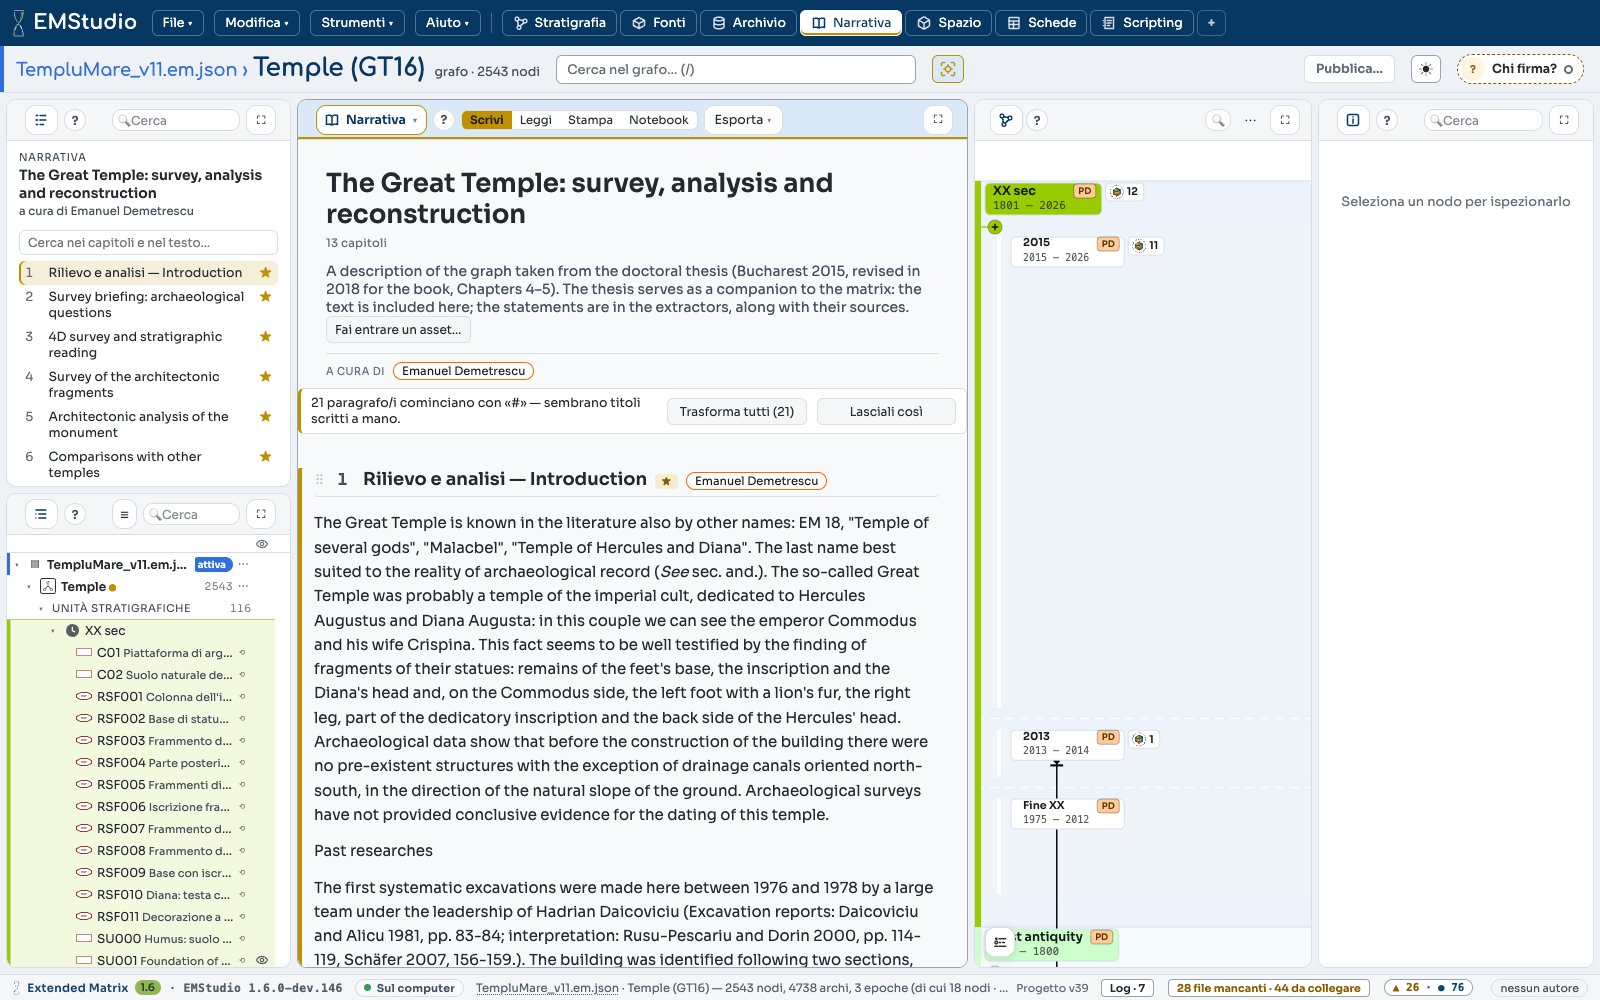
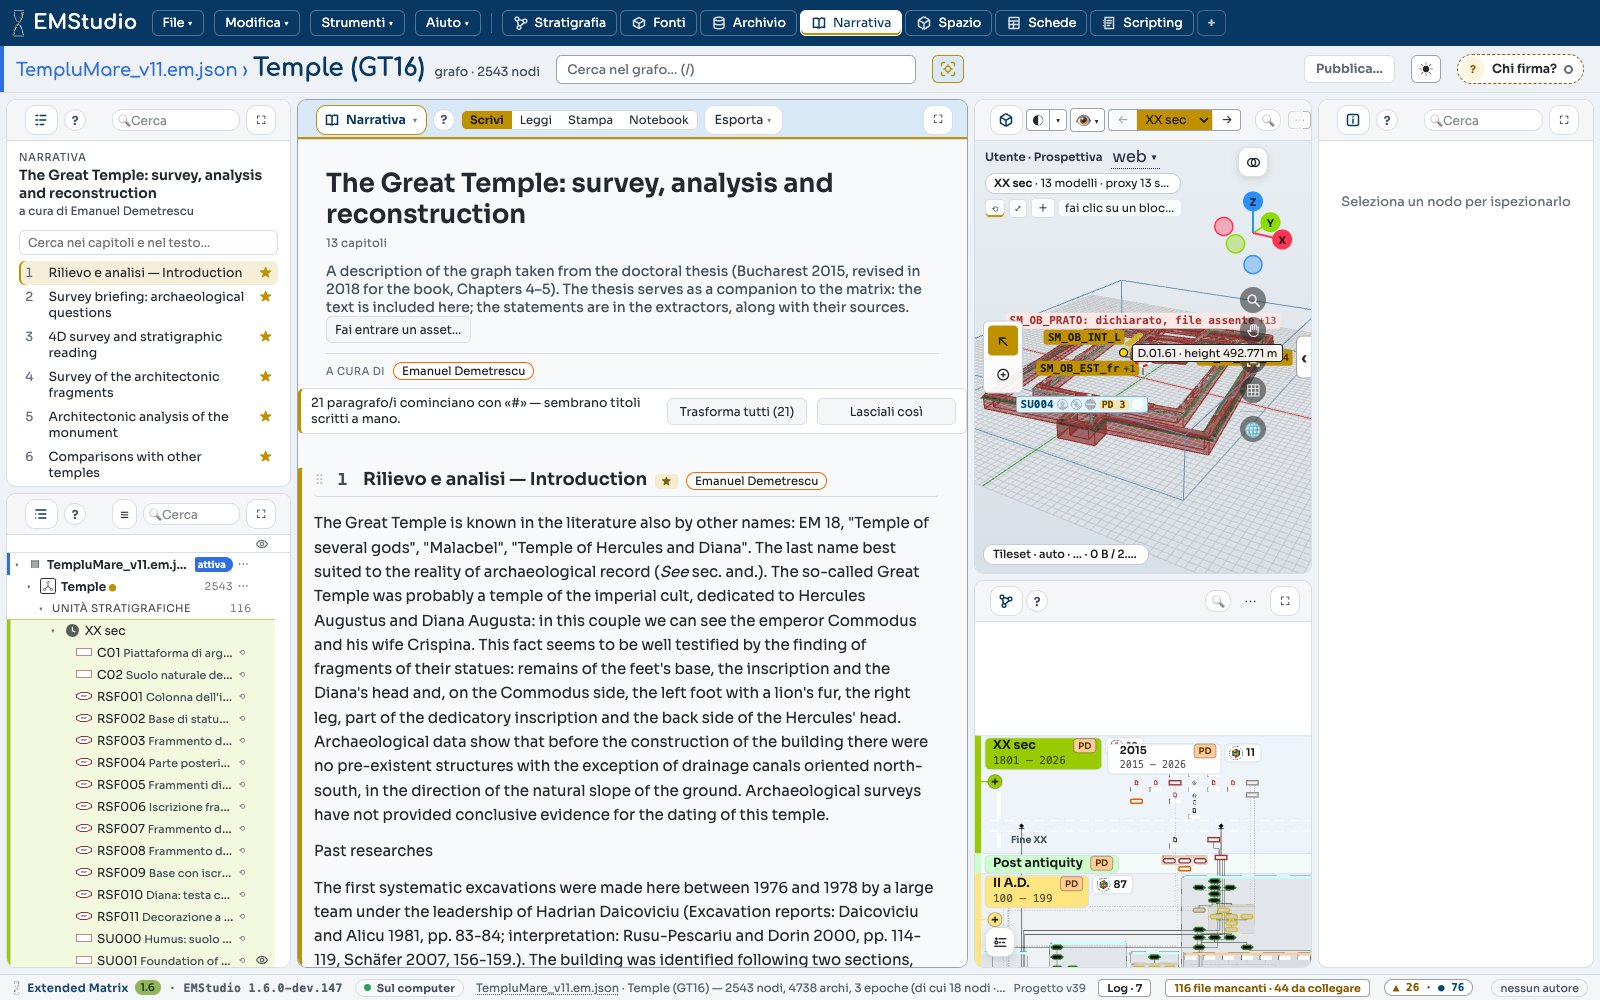
Narrative: the 3D view that accompanies the text (MICRO-SEG26) — write-the-narrative «Follow the text in 3D» (following the block, the strip, from the scene to the text, bringing a view of the Space dynamic or static, em.app.narrative), the Narrative workspace in reference/workspaces with the 3D abo

Changed region(s): [[0.5938, 0.093, 0.8438, 0.992]]

diff --git a/docs/how-to/narrative/write-the-narrative.rst b/docs/how-to/narrative/write-the-narrative.rst
@@ -20,8 +20,9 @@ Before you start
   reconstruction*, with chapters such as *Virtual Activity 2: colonnade*.
 - Click **Narrative** in the bar of the workspaces. The workspace shows the
   **Index** of the story above the **Outliner** on the left, the **Narrative**
-  window (the page) in the middle, and a **Graph** window in **Matrix** mode
-  beside the **Inspector** on the right (see :doc:`/reference/workspaces`).
+  window (the page) in the middle, a **3D scene** above a **Graph** window in
+  **Matrix** mode, and the **Inspector** on the right (see
+  :doc:`/reference/workspaces`).
 
 Start a story
 -------------
@@ -216,6 +217,8 @@ Matrix: an epoch, an activity, or a horizon of the project's periodization.
 **Story coverage** in the **Index** counts what the chapters and sections
 narrate: an epoch narrated, or one of its activities, is told.
 
+.. _how-to-narrative-figures:
+
 Insert the figures of an epoch or an activity
 ---------------------------------------------
 
@@ -298,6 +301,82 @@ A click on a notice takes the page to the part.
 .. image:: /_static/screens/narrative/coherence.jpg
    :alt: The Index with Coherence with the Matrix · 3 open: VAct.01 Foundations of the temple is now called VAct.01 Foundations and podium, in chapters 8 and 11, each with Keep as it is, and 3 bindings with no record yet, with Record them now.
 
+.. _how-to-narrative-follow-3d:
+
+Follow the text in 3D
+---------------------
+
+The **3D scene** of the Narrative workspace is the scene of the **Space**, and it
+accompanies the text: it follows the block you are on. In **Write** that is the
+block where the cursor is; in **Read**, the block at the upper third of the
+page when you stop scrolling.
+
+- When the block narrates an epoch or an activity (the chips under the title
+  of its chapter, section or subsection), the scene shows that epoch and only
+  the proxies and the models that belong to it, and frames them.
+- The units the block cites (its ``[[`` mentions, the **Cites** row of the
+  **Inspector**) are lit, and the other proxies are faded.
+- A block that narrates and cites nothing leaves the scene where it was.
+
+The camera flies to the new view, as when you double-click in the Space (with
+**Reduce motion** in the system settings it fades instead). While you write it
+waits until the cursor has stayed still for about a second, so the scene never
+moves while you type.
+
+The strip at the top of the scene has three buttons:
+
+- **Follow the text** turns the following off and on. It is on at the start.
+- **Frame this block** flies to the block now.
+- **Insert this view as a figure** puts the view as it is now into the story,
+  after the active block, as a live figure (see
+  :ref:`how-to-narrative-figures`).
+
+The scene is an area like the others: you can resize it, close it, or change it
+into another kind of window from its header.
+
+.. image:: /_static/screens/narrative/follow-3d.jpg
+   :alt: Chapter 8, Virtual Activity 1, with its first paragraph active: the 3D scene above the Matrix shows II A.D. with the proxies of VAct.01 Foundations of the temple only, USV102 and USV108 among them, and the strip Follow the text, Frame this block, Insert this view as a figure.
+
+From the scene to the text
+~~~~~~~~~~~~~~~~~~~~~~~~~~
+
+Click a proxy in the scene. The parts of the story that cite that unit, or
+narrate an activity it belongs to, are lit in the page, and the Index shows how
+many each chapter has. A bar at the top of the page says **«USV101» in 5 parts
+of the story**; **Next ›** and **‹ Previous** take you from one part to the
+next, and **×** removes the light.
+
+.. image:: /_static/screens/narrative/about-unit.jpg
+   :alt: USV101 picked in the 3D: the bar «USV101» in 5 parts of the story · 1/5 with Previous, Next and ×; chapter 8 lit in the page; in the Index, chapter 8 with the count 2.
+
+Bring a view of the Space into the story
+~~~~~~~~~~~~~~~~~~~~~~~~~~~~~~~~~~~~~~~~
+
+In the **Space**, choose **Bring into the Narrative…** from the **⋯** menu of
+the 3D view, or press :kbd:`Shift+N` with the pointer over the scene. The view as
+it is now (the camera, the epoch, the layers shown, the selection, the level of
+detail) goes into the story, after the active block:
+
+- **Dynamic** inserts a live figure: it is drawn again from the graph when the
+  graph changes, and in **Read** **Open in the Space** opens the same view
+  again;
+- **Static** inserts a picture taken now, at high resolution, which does not
+  change with the graph. Its caption carries the date and the view's
+  parameters, for example *XX sec — view from the Space, frozen on 22 Nov 2026,
+  08:40 · epoch XX sec · User · Perspective · layers: …*.
+
+When no block is active, the window proposes the chapters and sections that
+narrate the epoch of the view (or the chapters, when none narrates it).
+``Edit ▸ Undo`` takes the figure back in one step.
+
+.. image:: /_static/screens/narrative/bring-view.png
+   :alt: The window Bring the view into the Narrative: the view as it is now goes into the story; no block is active, choose where; Into 1 · Rilievo e analisi — Introduction; the buttons Cancel, Static and Dynamic.
+
+Scripts read and drive the same things: ``em.app.narrative.follow`` (``True`` or
+``False``), ``em.app.narrative.active`` (the active block, what it narrates and
+cites), ``em.app.narrative.go(chapter, block)``, and the event
+``narrative-block-changed`` (``em.app.on("narrative-block-changed", fn)``).
+
 Find your way in a long story
 -----------------------------
 
@@ -331,7 +410,8 @@ What you get
 A story that lives in the graph: saved in the study file, divided into
 chapters, sections and subsections, signed chapter by chapter, with its lanes
 tied to the epochs and activities of the Matrix, their figures numbered and
-captioned, and the differences from the Matrix pointed out. Two
+captioned, the differences from the Matrix pointed out, and a 3D scene that
+follows the block you are writing or reading. Two
 **Narrative** windows can show the same story in two readings, one written and
 one read.
 

diff --git a/docs/reference/workspaces.rst b/docs/reference/workspaces.rst
@@ -40,7 +40,8 @@ The seven workspaces
      - Outliner · Files (on the **Disk**) · Shelf · Transformation chain (DTC)
    * - **Narrative**
      - How do I tell it, and what does it rest on?
-     - Index · Outliner · Narrative · Graph in **Matrix** mode · Inspector
+     - Index · Outliner · Narrative · 3D scene above a Graph in **Matrix** mode ·
+       Inspector
    * - **Space**
      - Where is it, and what shape does it have in each epoch?
      - Outliner · 3D scene · Tabular on the sheet **Models and proxies** · Graph in
@@ -102,12 +103,13 @@ Narrative
 
 The workspace of the story. The left column holds the **Index** of the story
 above the **Outliner**. The **Narrative** window, the page, is in the middle,
-open for writing. On the right, a **Graph** window in **Matrix** mode follows the
-chapter being read, beside the **Inspector**, which also carries the tools of
-the page.
+open for writing. On the right, a **3D scene** above a **Graph** window in
+**Matrix** mode: both follow the part being written or read (the scene the
+block, see :ref:`how-to-narrative-follow-3d`), beside the **Inspector**, which
+also carries the tools of the page.
 
 .. image:: /_static/screens/workspaces/narrative.jpg
-   :alt: The Narrative workspace: the Index of the story above the Outliner, the Narrative window open for writing on the first chapter, the Matrix and the Inspector on the right.
+   :alt: The Narrative workspace: the Index of the story above the Outliner, the Narrative window open for writing on the first chapter, the 3D scene above the Matrix, and the Inspector on the right.
 
 Space
 ~~~~~
